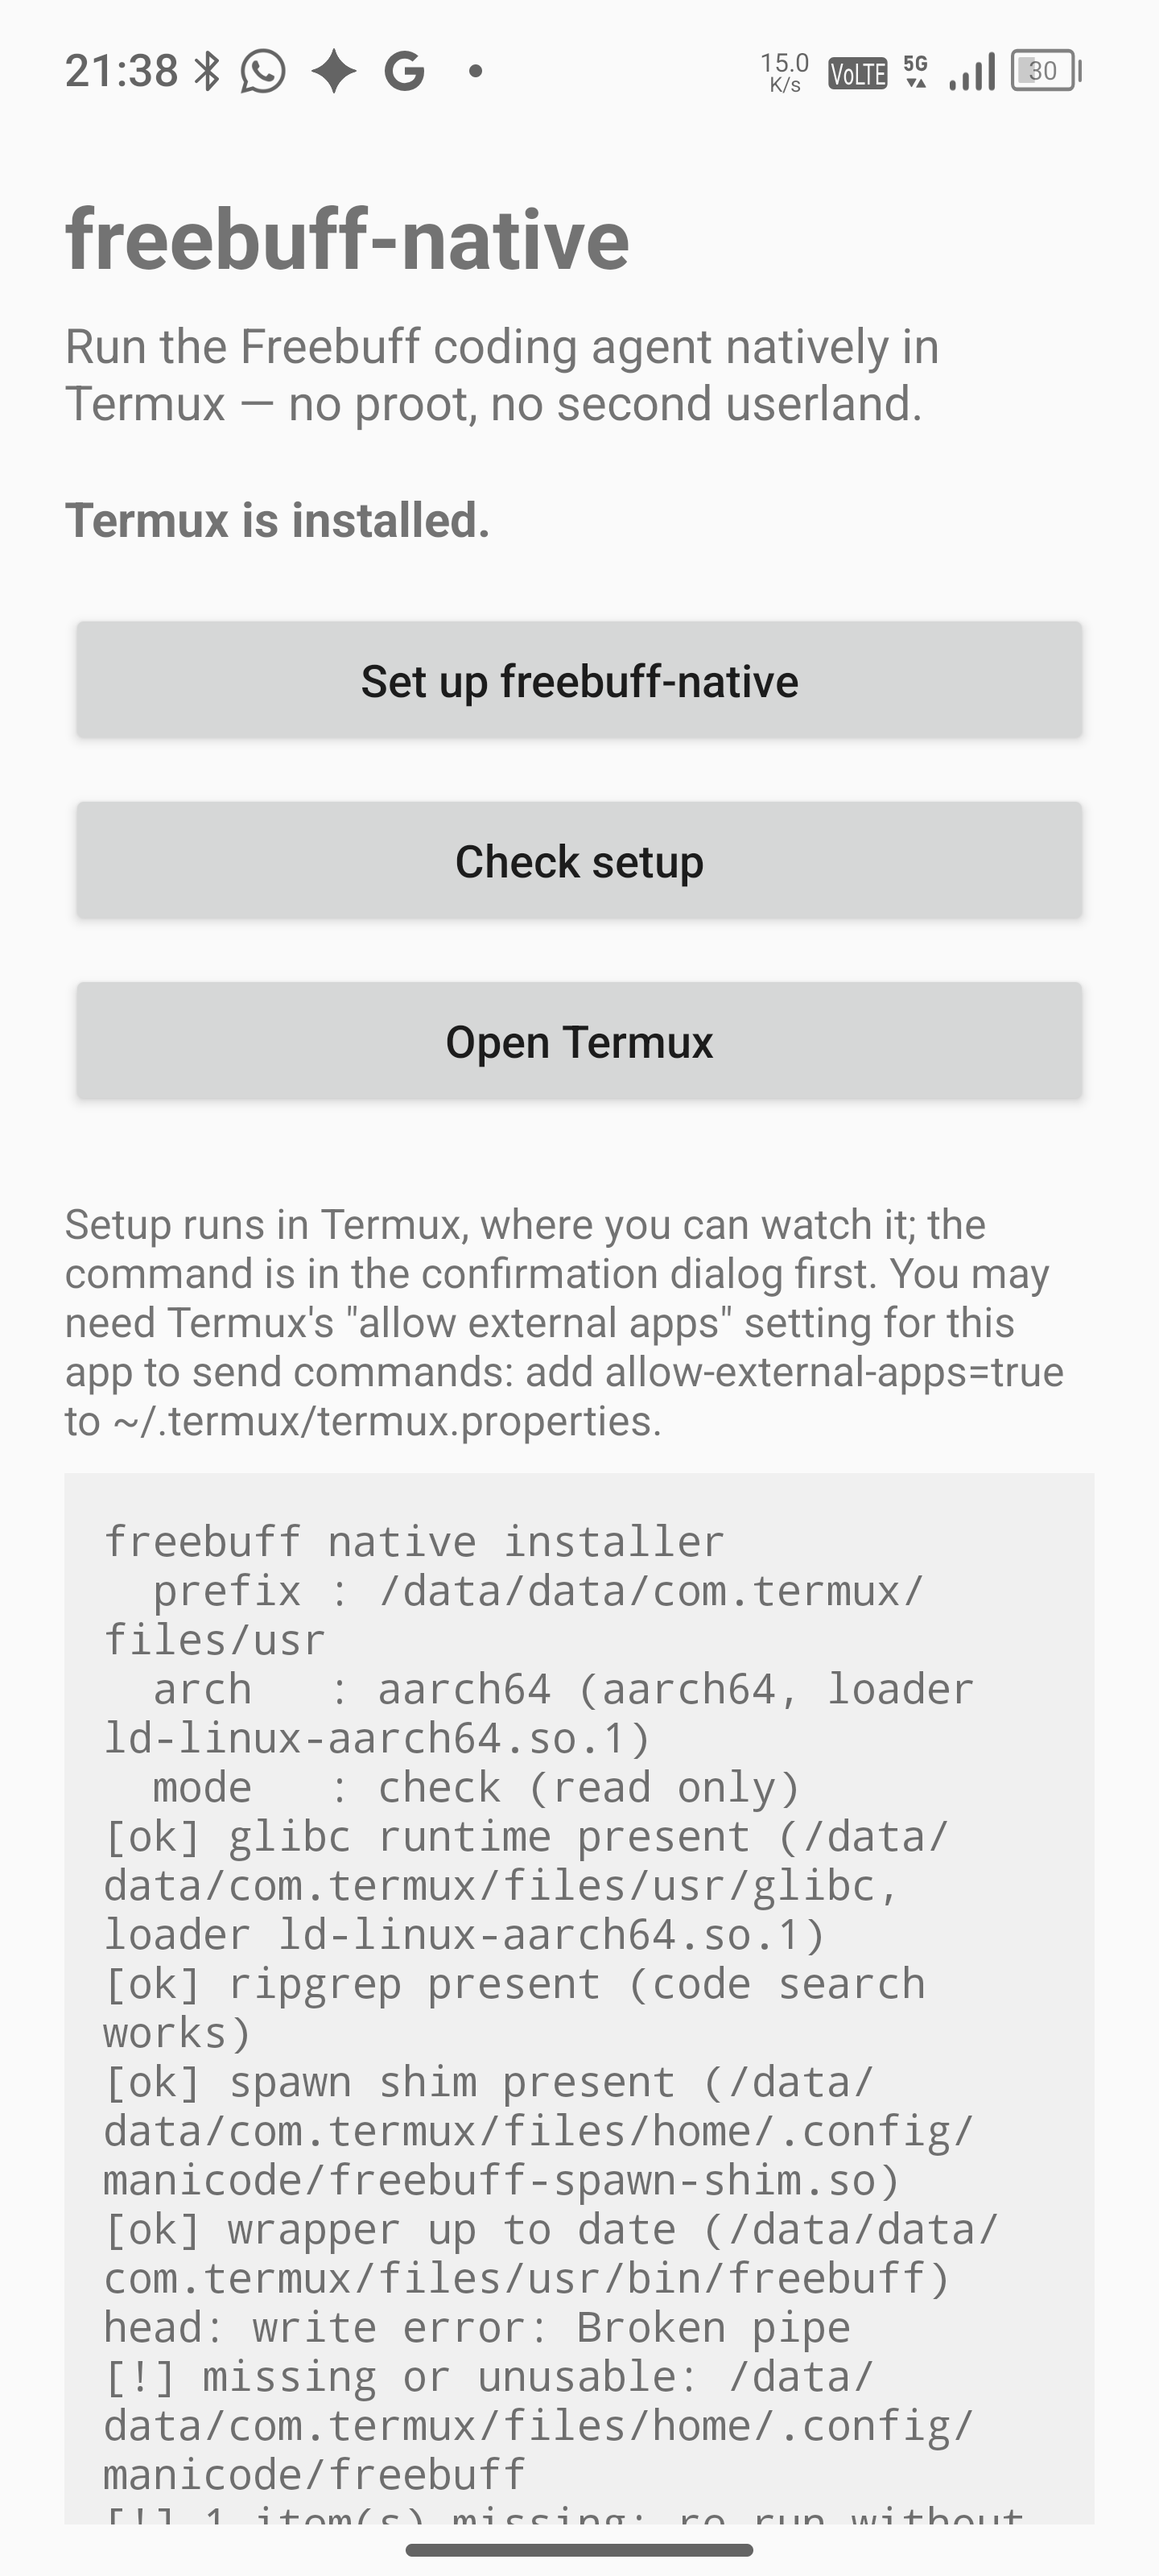
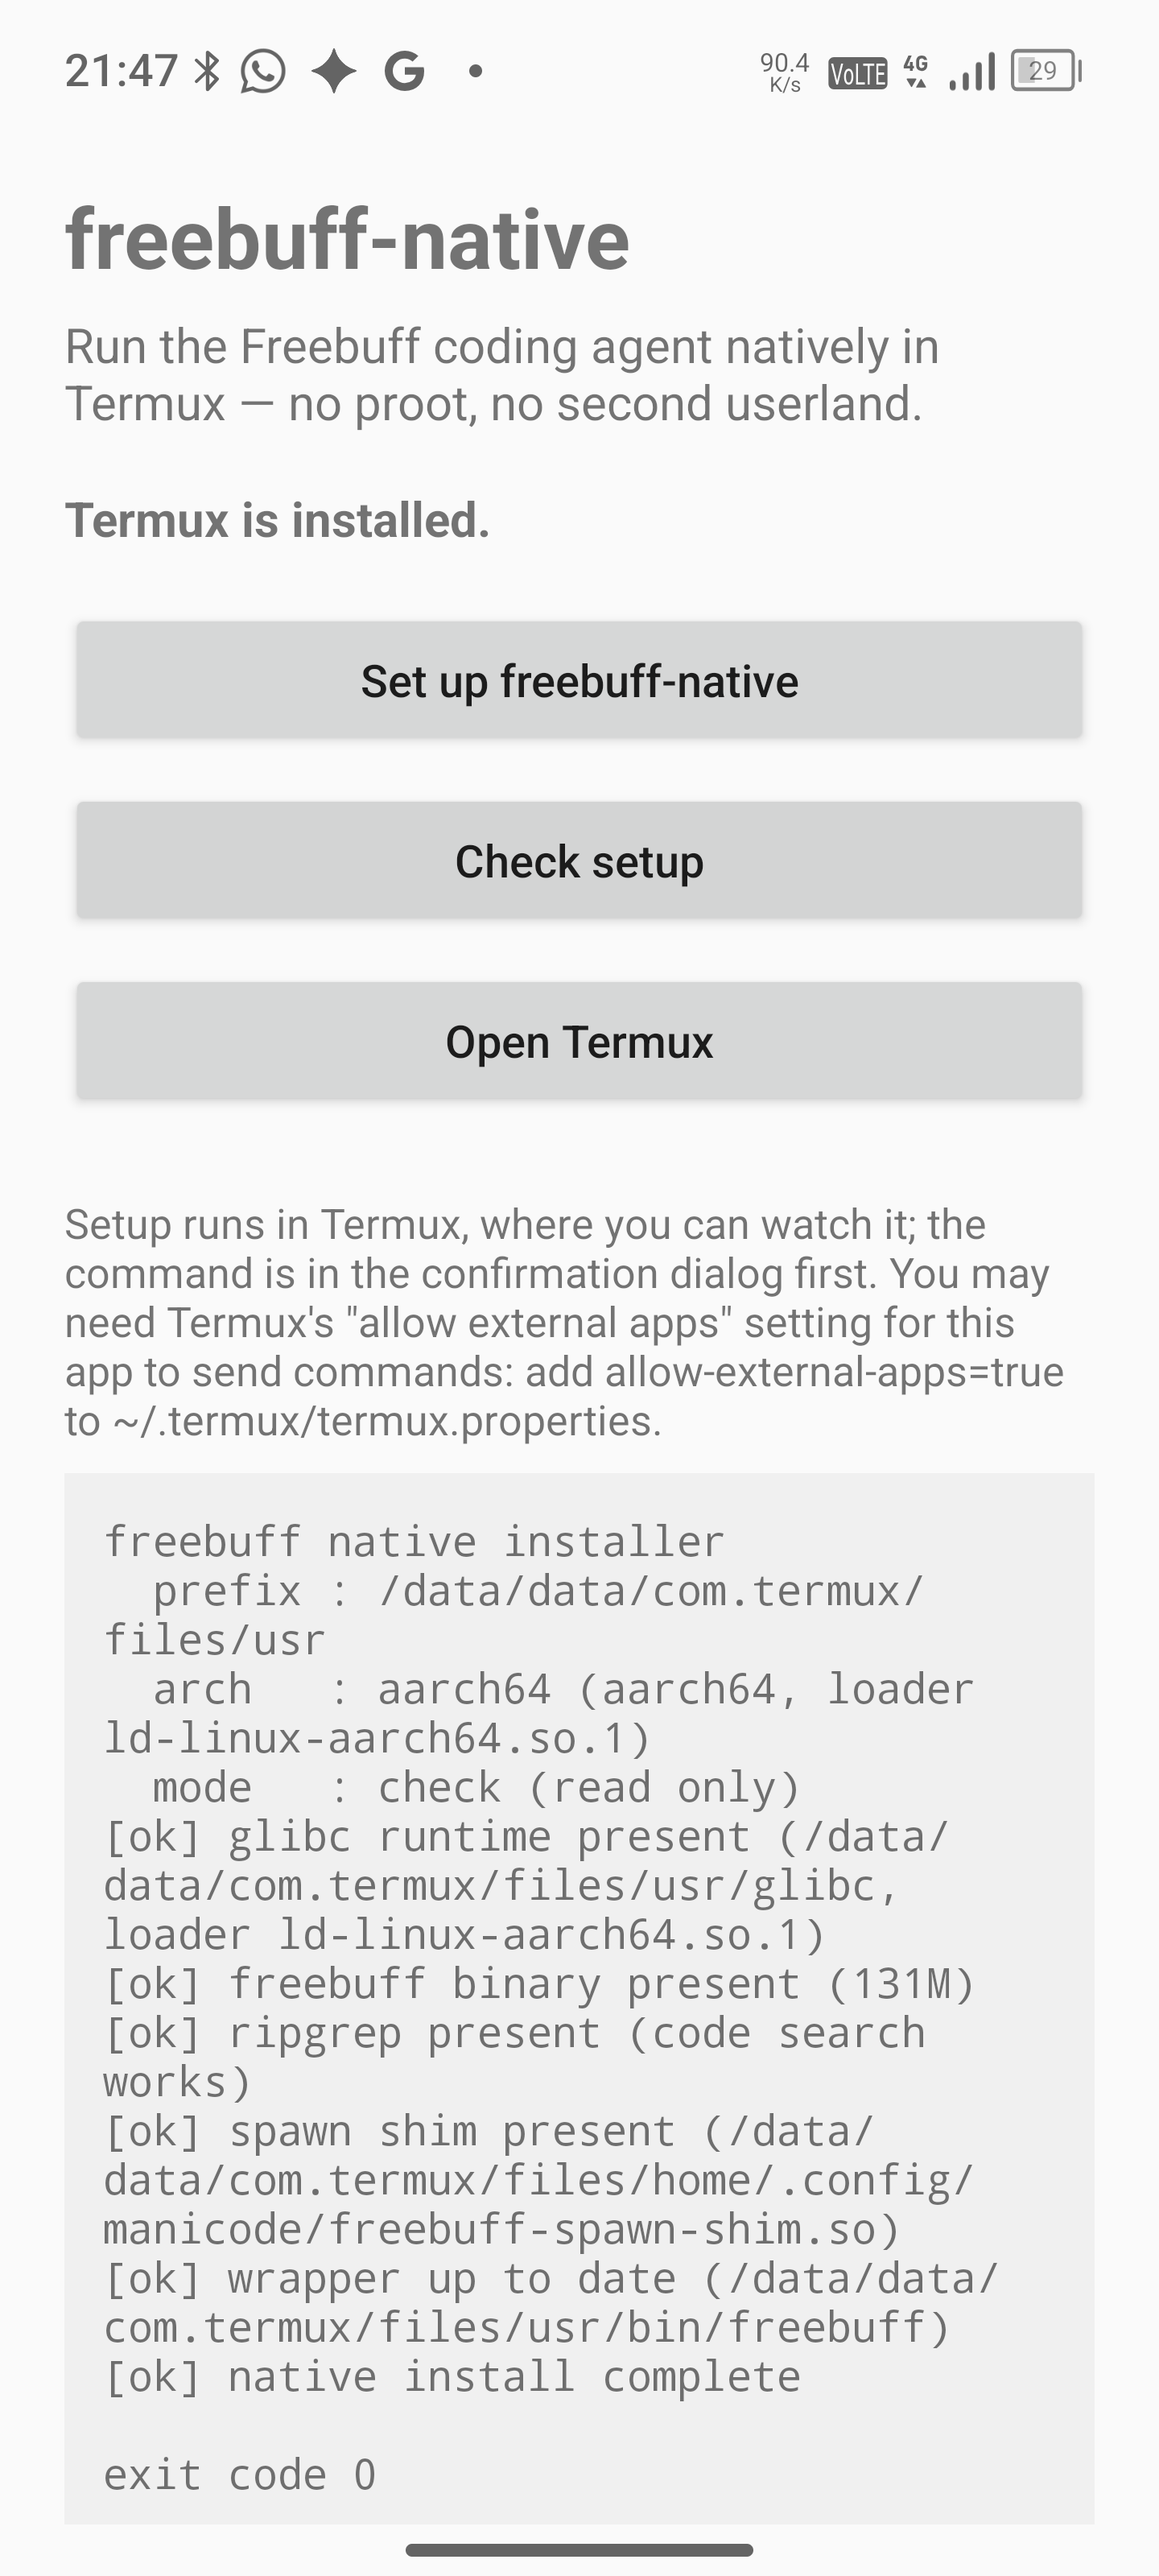
Document the app as built, tested and photographed
The scaffold notes are no longer true: CI compiles both APKs, the instrumentation
test runs against a real Termux, and the fastlane screenshots are captured from
the device by the test rather than mocked up.  Document the e2e command, the
reason the denial case is a second run, and the remaining F-Droid steps.

Changed region(s): [[0.0938, 0.75, 0.8438, 0.9688], [0.7812, 0.9375, 0.8125, 0.9688], [0.125, 0.0, 0.1562, 0.0312]]

diff --git a/android/README.md b/android/README.md
@@ -5,10 +5,10 @@ the only shape an F-Droid listing can take: a small, dependency-free app that
 detects Termux, explains the download, asks for consent, and hands one command
 to Termux through `RUN_COMMAND`.
 
-**Status: scaffold.** It has not been compiled yet — there is no Android SDK in
-the environment where it was written. Do not submit it to F-Droid until it
-builds and runs on a device. `bash test/android-test.sh` covers what can be
-checked without a build (manifest, resources, metadata, consistency).
+**Status: builds and runs.** CI compiles the APK and the test APK; the
+instrumentation test has run on an aarch64 device against a real Termux, and the
+screenshots in `fastlane/` come from that run. What remains before an F-Droid
+submission is a tagged release and the `fdroiddata` merge request.
 
 ## What it does
 
@@ -42,12 +42,13 @@ Requirements: JDK 17 and an Android SDK with platform 35 and build-tools 35.
 
 ```bash
 cd android
-gradle wrapper --gradle-version 8.9   # once; the wrapper jar is not committed
-./gradlew assembleDebug                # app/build/outputs/apk/debug/
+gradle wrapper --gradle-version 8.9          # once; the wrapper jar is not committed
+./gradlew assembleDebug assembleDebugAndroidTest
 ```
 
-The result is `app/build/outputs/apk/debug/app-debug.apk`. There are no library
-dependencies, so the SDK and the Android Gradle Plugin are the only downloads.
+The results are `app-debug.apk` and `app-debug-androidTest.apk`. The shipped app
+has no library dependencies; the test APK carries the AndroidX test runner and
+UI Automator, and nothing from it enters the app.
 
 To install on a device:
 
@@ -62,6 +63,23 @@ echo 'allow-external-apps=true' >> ~/.termux/termux.properties
 termux-reload-settings
 ```
 
+## End-to-end test
+
+The test drives the app through accessibility on a real device, so it asserts
+what a user would see:
+
+```bash
+python3 test/android-e2e.py --apk android/app/build/outputs/apk/debug/app-debug.apk \
+    --test-apk android/app/build/outputs/apk/androidTest/debug/app-debug-androidTest.apk \
+    --screenshots android/fastlane/metadata/android/en-US/images/phoneScreenshots
+```
+
+It installs both APKs, runs `SetupFlowTest` (buttons, consent dialog, a real
+RUN_COMMAND round trip through Termux), then revokes the permission and runs
+`DeniedPermissionTest` in a second pass, because revoking kills the app process
+and the runner with it. Every wait is an accessibility event; the whole run takes
+about 20 seconds, most of which is installing the APKs.
+
 ## Layout
 
 ```
@@ -69,6 +87,7 @@ android/
 ├── app/src/main/AndroidManifest.xml     permission, Termux query, receiver
 ├── app/src/main/java/…/MainActivity.java    status, consent, RUN_COMMAND
 ├── app/src/main/java/…/RunCommandReceiver.java  reads Termux's result bundle
+├── app/src/androidTest/java/…/SetupFlowTest.java  the end-to-end test
 ├── app/src/main/res/…                   strings, theme, vector icon
 ├── fastlane/metadata/android/en-US/     F-Droid listing text and changelog
 └── app/build.gradle.kts                 versionCode/versionName, no deps
@@ -76,9 +95,9 @@ android/
 
 ## F-Droid submission checklist
 
-1. Build and run it on a device; fix what the compiler catches.
-2. Add screenshots to `fastlane/metadata/android/en-US/images/phoneScreenshots/`
-   (F-Droid shows them; keep them honest — real UI, no mockups with fake data).
+1. ~~Build and run it on a device.~~ Done; the test APK and the screenshots are
+   produced by `test/android-e2e.py`.
+2. ~~Add screenshots.~~ Done — they are captured by the test, not mocked up.
 3. Tag the release that contains this app and point `Update Check Mode` at tags.
 4. Open a merge request against `fdroiddata` with `builds`/`srclibs` for this
    repo, `subdir=android`, and `gradle=yes`.

diff --git a/README.md b/README.md
@@ -12,7 +12,7 @@ upstream binary, on the Android kernel, with no proot and no ptrace.
 | `packaging/termux/templates/` | control file, maintainer scripts and launcher, rendered by the builder |
 | `packaging/termux/repo/` | APT repository builder, `freebuff-repo` setup package, Pages index |
 | `tur/freebuff-native/build.sh` | TUR recipe draft, ready to copy into a TUR pull request |
-| `android/` | setup companion app for an F-Droid listing: detects Termux, consents, sends one command (scaffold, not yet built) |
+| `android/` | setup companion app for an F-Droid listing: detects Termux, consents, sends one command; built in CI and tested on a device |
 | `test/installer-test.sh` | the installer test runner; cases live in `test/installer/` |
 | `test/shim-test.sh` | behavioural tests for the shim, with two small C fixtures in `test/shim/` |
 | `test/package-test.sh` | builds a package with a throwaway prefix and inspects its contents |
@@ -102,7 +102,8 @@ bash test/shim-test.sh        # shim: compiles it with the host cc
 bash test/package-test.sh     # .deb: builds and inspects a package, no root
 bash test/repo-test.sh        # apt repo: indexes, Release, signing, freebuff-repo
 bash test/tur-test.sh         # TUR recipe: its install step, in a throwaway prefix
-bash test/android-test.sh     # Android scaffold: manifest, resources, F-Droid metadata
+bash test/android-test.sh     # Android: manifest, resources, F-Droid metadata
+python3 test/android-e2e.py   # Android, on a device: installs and drives the app
 ```
 
 Each installer test builds a throwaway prefix under `mktemp -d` with a stub

diff --git a/docs/distribution.md b/docs/distribution.md
@@ -46,9 +46,9 @@ shows the download budget, asks for consent, sends one command through
 
 Before a submission:
 
-- build it with an SDK (JDK 17, platform 35) and run it on a device; the code
-  has never been compiled;
-- add real screenshots;
+- ~~build it and run it on a device~~: CI compiles it, and `test/android-e2e.py`
+  runs four instrumentation tests against a real Termux;
+- ~~add screenshots~~: the e2e run captures them from the device;
 - tag the release and point the update check at tags;
 - expect the reviewer to ask why this is an app rather than a script — the
   answer is consent, detection, status, and recovery when Termux blocks
@@ -56,7 +56,8 @@ Before a submission:
   F-Droid.
 
 The app has no `INTERNET` permission. Nothing in it can download anything; the
-installer in Termux does the work, visibly.
+installer in Termux does the work, visibly. The APK also has no library
+dependencies: AndroidX and UI Automator are `androidTest` only.
 
 ## What actually drives adoption
 
